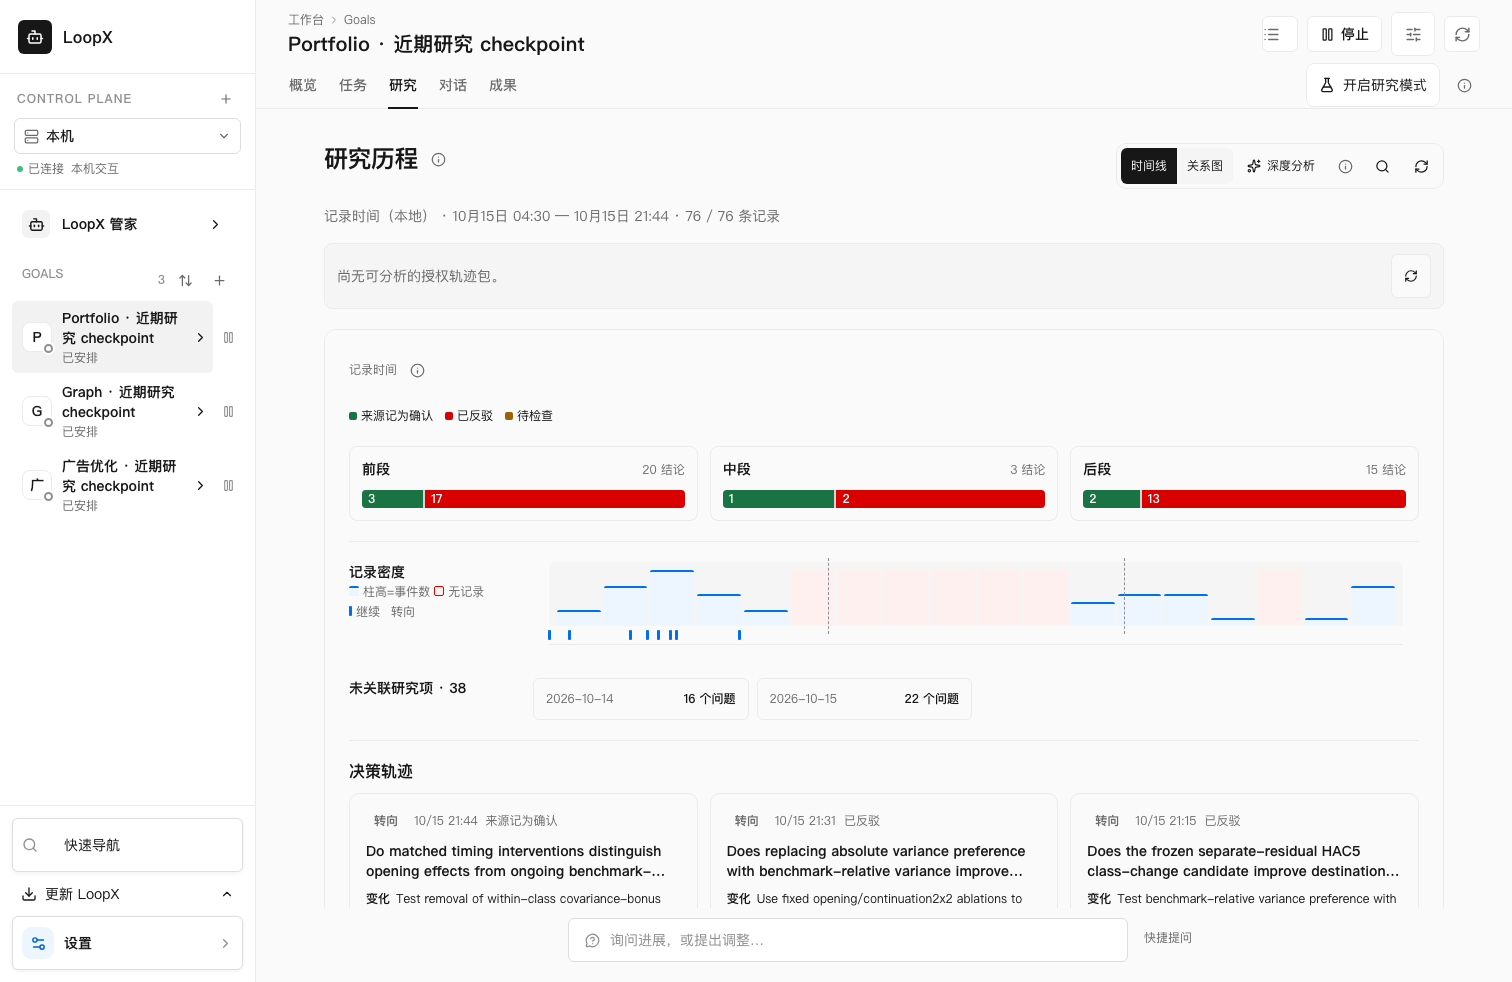
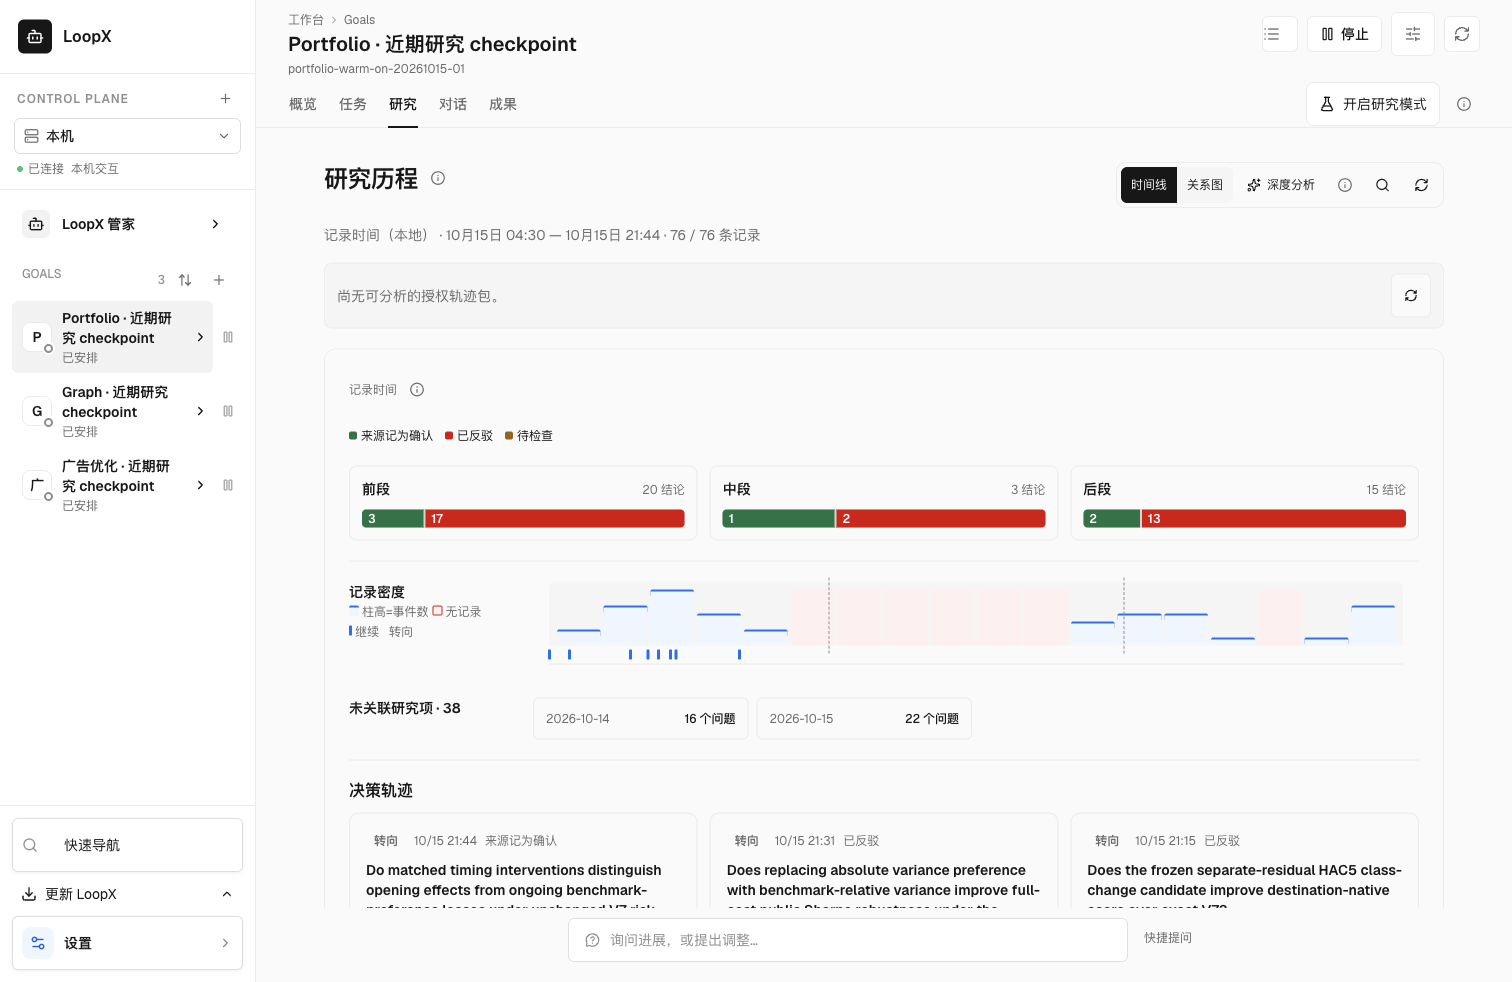
fix(workspace): show complete decision card titles

diff --git a/apps/presentation/dashboard/src/features/personal-workspace/goal-research-history.css b/apps/presentation/dashboard/src/features/personal-workspace/goal-research-history.css
@@ -196,7 +196,7 @@
 .research-history .research-trail-list button { display: flex; flex-direction: column; align-items: stretch; gap: 8px; width: 100%; height: 100%; padding: 16px; border: 1px solid var(--pw-line); border-radius: 10px; background: var(--pw-bg); color: var(--pw-text); font: inherit; font-size: var(--text-caption); line-height: var(--leading-prose); text-align: left; cursor: pointer; transition: border-color var(--motion-fast) var(--ease-standard), background-color var(--motion-fast) var(--ease-standard); }
 .research-history .research-trail-list button:hover { border-color: var(--pw-line-strong); background: var(--pw-hover); }
 .research-history .research-trail-list button.is-selected { border-color: var(--pw-text); outline: 1px solid var(--pw-text); }
-.research-trail-list strong { font-size: var(--text-body); line-height: var(--leading-body); font-weight: 600; display: -webkit-box; -webkit-line-clamp: 2; -webkit-box-orient: vertical; overflow: hidden; }
+.research-trail-list strong { font-size: var(--text-body); line-height: var(--leading-body); font-weight: 600; display: block; overflow-wrap: anywhere; }
 .research-trail-list span:not(.research-trail-meta) { display: -webkit-box; -webkit-line-clamp: 2; -webkit-box-orient: vertical; overflow: hidden; }
 .research-trail-list .is-muted, .research-finding-sections .is-muted { color: var(--pw-muted); }
 .research-trail-meta { display: flex; align-items: center; gap: 8px; color: var(--pw-muted); }
